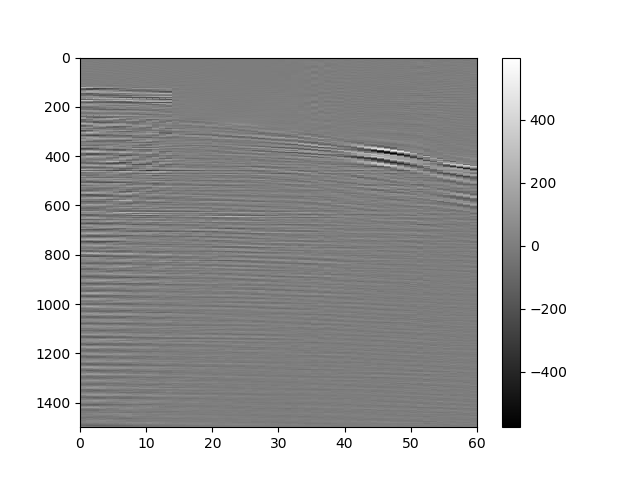
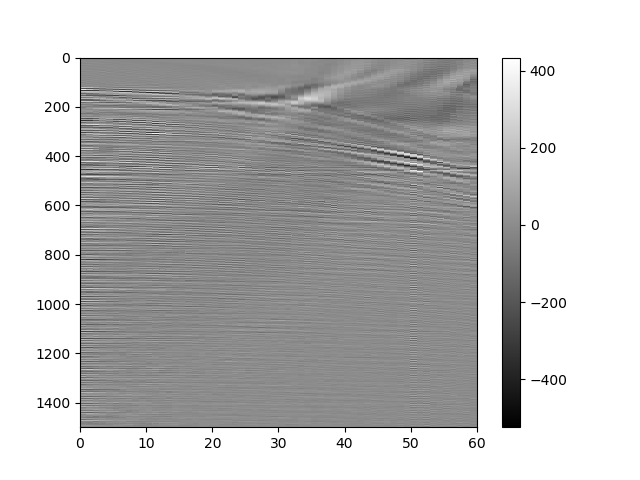
Finished NMO

diff --git a/main.py b/main.py
@@ -1,7 +1,8 @@
 import json
 import numpy as np
-from cmp_stack import RadonTransform
+from cmp_stack import RadonTransform, NormalMoveOut
 import matplotlib.pyplot as plt
+import h5py
 
 
 
@@ -10,19 +11,50 @@ if __name__ == '__main__':
     with open('input/config.json', 'r') as fp:
         config = json.load(fp)
 
-    data = np.fromfile('input/CMP_nmo_mute.bin', dtype='float32')
-    data = data.astype('float64')
-    data = data.reshape(config['parameters']['num_receivers'], config['parameters']['num_time_steps']).T
-    flat_data = data.flatten()
+    num_gathers = config['parameters']['num_gathers']
 
-    plt.pcolormesh(data, cmap='gray')
+    nmo = NormalMoveOut(config)
+
+    with h5py.File('input/cmp1900_mute_gain.hdf5', 'r') as data_file:
+
+        muted_data = data_file['cmp_gathers'][:, :, 0]
+        # plt.pcolormesh(data_file['cmp_gathers'][:, :, 1899], vmin=-100, vmax=100, cmap='gray')
+        # plt.gca().invert_yaxis()
+        # plt.colorbar()
+        # plt.savefig('figures/one_cmp_1900.png')
+        # plt.clf()
+
+    nmo(muted_data)
+
+    plt.pcolormesh(nmo.data_nmo, vmin=-100, vmax=100, cmap='gray')
     plt.gca().invert_yaxis()
     plt.colorbar()
-    plt.savefig('figures/data.png')
+    plt.savefig('figures/one_cmp_nmo.png')
     plt.clf()
 
+    # cmp1_data = np.fromfile('input/1cmp_gather.bin', dtype='float32').astype('float64').reshape(nmo.num_receivers,
+    #                                                                                             nmo.num_time_steps).T
+    #
+    # plt.pcolormesh(cmp1_data, cmap='gray')
+    # plt.gca().invert_yaxis()
+    # plt.colorbar()
+    # plt.savefig('figures/cmp1.png')
+    # plt.clf()
+
+
+    # data = np.fromfile('input/CMP_nmo_mute.bin', dtype='float32')
+    # data = data.astype('float64')
+    # data = data.reshape(config['parameters']['num_receivers'], config['parameters']['num_time_steps']).T
+    # flat_data = data.flatten()
+    #
+    # plt.pcolormesh(data, cmap='gray')
+    # plt.gca().invert_yaxis()
+    # plt.colorbar()
+    # plt.savefig('figures/data.png')
+    # plt.clf()
+    #
     rt = RadonTransform(config)
-    rt(flat_data)
+    rt(nmo.data_nmo_flat)
 
     plt.pcolormesh(rt.radon_domain_out, vmin=-3500, vmax=3500, cmap='gray')
     plt.colorbar()

diff --git a/cmp_stack/nmo.py b/cmp_stack/nmo.py
@@ -1,0 +1,44 @@
+import numpy as np
+
+
+class NormalMoveOut:
+
+    def __init__(self, config):
+        self.num_time_steps = config['parameters']['num_time_steps']
+        self.num_receivers = config['parameters']['num_receivers']
+        self.delta_t = config['parameters']['delta_t']
+        self.delta_offset = config['parameters']['delta_offset']
+        self.min_offset = config['parameters']['min_offset']
+        self.seafloor = config['parameters']['seafloor']
+
+        self.t_values = np.linspace(0, self.delta_t * self.num_time_steps, self.num_time_steps)
+
+        vnmo = np.fromfile(config['nmo_parameters']['vnmo_file'], dtype='float32').astype('float64')
+        vnmo_tau = np.fromfile(config['nmo_parameters']['tau_file'], dtype='float32').astype('float64')
+        self.vnmo_interp = np.interp(self.t_values, vnmo_tau, vnmo)
+
+        self.data_nmo = np.zeros((self.num_time_steps, self.num_receivers))
+
+    def __call__(self, data):
+
+        tmax = self.delta_t * (self.num_time_steps - 1)
+        self.data_nmo[:self.seafloor, :] = data[:self.seafloor, :]
+
+        for it in range(self.seafloor, self.num_time_steps):
+            t0 = self.t_values[it]
+            velocity = self.vnmo_interp[it]
+
+            for ir in range(self.num_receivers):
+                offset = self.min_offset + self.delta_offset * ir
+                t_nmo = np.sqrt(t0**2 + (offset**2) / (velocity**2))
+
+                if t_nmo > tmax:
+                    amp = 0
+                else:
+                    times_at_rec = data[:, ir]
+                    amp = np.interp(t_nmo, self.t_values, times_at_rec)
+                self.data_nmo[it, ir] = amp
+
+    @property
+    def data_nmo_flat(self):
+        return self.data_nmo.flatten()

diff --git a/convert_to_hdf5.py b/convert_to_hdf5.py
@@ -1,0 +1,22 @@
+import h5py
+import numpy as np
+import json
+
+if __name__ == '__main__':
+    with open('input/config.json', 'r') as fp:
+        config = json.load(fp)
+
+    num_gathers = 1900
+    num_receivers = config['parameters']['num_receivers']
+    num_time_steps = config['parameters']['num_time_steps']
+
+    cmp1900_data = np.fromfile('input/CMP1900_mute_gain.bin', dtype='float32').astype('float64')
+    cmp1900_data = cmp1900_data.reshape((num_receivers * num_gathers, num_time_steps)).T
+
+    reshaped = np.zeros((num_time_steps, num_receivers, num_gathers))
+
+    for i in range(num_gathers):
+        reshaped[:, :, i] = cmp1900_data[:, i * num_receivers:(i + 1) * num_receivers]
+
+    with h5py.File('input/cmp1900_mute_gain.hdf5', 'w') as fp:
+        fp.create_dataset('cmp_gathers', data=reshaped)

diff --git a/cmp_stack/generate_config.py b/cmp_stack/generate_config.py
@@ -6,12 +6,18 @@ def generate_config():
                   'delta_t': 0.004,
                   'num_receivers': 60,
                   'delta_offset': 50,
-                  'min_offset': 262}
+                  'min_offset': 262,
+                  'seafloor': 50,
+                  'num_gathers': 1900}
+
+    nmo_parameters = {'vnmo_file': 'input/Vnmo.bin',
+                      'tau_file': 'input/tau.bin'}
+
     radon_parameters = {'p_min': -6.0e-7,
                         'p_max': 6.0e-7,
                         'delta_p': 5.0e-9}
 
-    return {'parameters': parameters, 'radon_parameters': radon_parameters}
+    return {'parameters': parameters, 'nmo_parameters': nmo_parameters, 'radon_parameters': radon_parameters}
 
 
 if __name__ == '__main__':

diff --git a/cmp_stack/__init__.py b/cmp_stack/__init__.py
@@ -1,1 +1,2 @@
 from cmp_stack.radon_transform import RadonTransform
+from cmp_stack.nmo import NormalMoveOut
